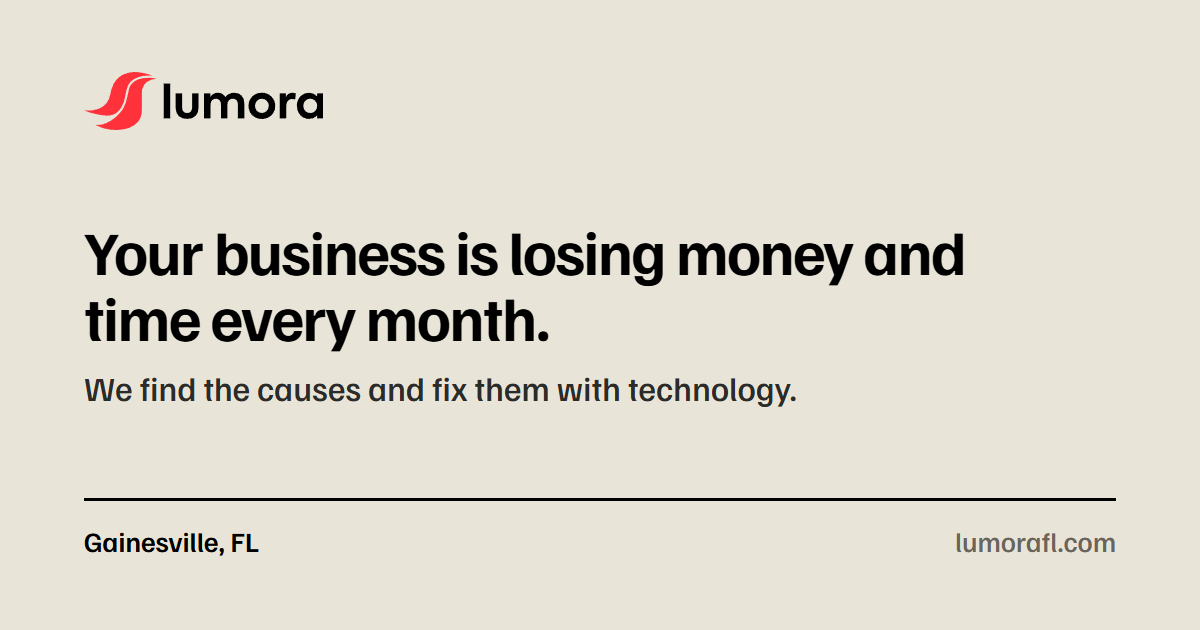
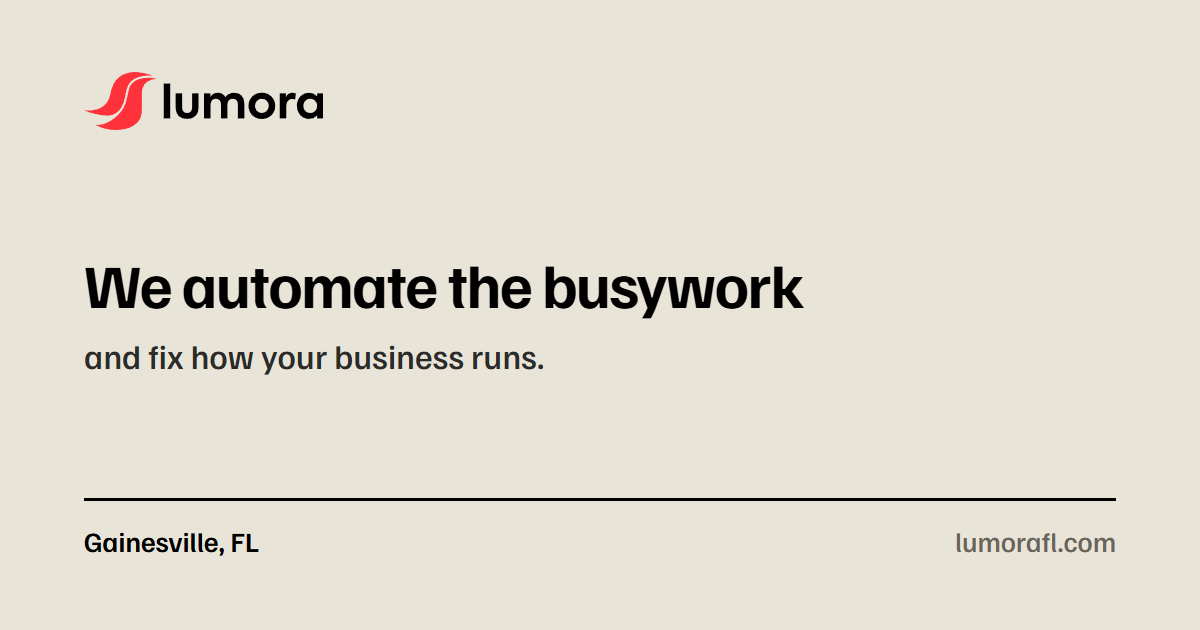
Headline A: We automate the busywork and fix how your business runs (EN and ES), with the operations-and-automation line above it, the new lede, link preview and share card

Changed region(s): [[0.0617, 0.3619, 0.8017, 0.6635]]

diff --git a/es/index.html b/es/index.html
@@ -4,20 +4,20 @@
 <head>
 <meta charset="utf-8">
 <meta name="viewport" content="width=device-width, initial-scale=1">
-<title>Encontramos dónde pierde dinero su negocio | Lumora, Gainesville FL</title>
-<meta name="description" content="Para negocios de oficios y negocios locales de Gainesville: encontramos dónde pierde dinero y tiempo, como datos pasados a mano dos veces, trabajos sin cobrar y cotizaciones tardías, y arreglamos las causas con tecnología. Llamada sin costo, hasta 20 minutos.">
+<title>Automatizamos el trabajo repetitivo | Lumora, Gainesville FL</title>
+<meta name="description" content="Para negocios de oficios y negocios locales de Gainesville: automatizamos el trabajo repetitivo, como datos pasados a mano dos veces, trabajos sin cobrar y cotizaciones tardías, y arreglamos cómo funciona su negocio. Llamada sin costo de hasta 20 minutos.">
 <link rel="canonical" href="https://lumorafl.com/es/">
 <link rel="alternate" hreflang="en" href="https://lumorafl.com/">
 <link rel="alternate" hreflang="es" href="https://lumorafl.com/es/">
 <link rel="alternate" hreflang="x-default" href="https://lumorafl.com/">
-<meta property="og:title" content="Encontramos dónde pierde dinero y tiempo su negocio">
-<meta property="og:description" content="Para negocios de oficios y negocios locales de Gainesville: encontramos dónde pierde dinero y tiempo, como datos pasados a mano dos veces, trabajos sin cobrar y cotizaciones tardías, y arreglamos las causas con tecnología. Llamada sin costo, hasta 20 minutos.">
+<meta property="og:title" content="Automatizamos el trabajo repetitivo y arreglamos cómo funciona su negocio">
+<meta property="og:description" content="Para negocios de oficios y negocios locales de Gainesville: automatizamos el trabajo repetitivo, como datos pasados a mano dos veces, trabajos sin cobrar y cotizaciones tardías, y arreglamos cómo funciona su negocio. Llamada sin costo de hasta 20 minutos.">
 <meta property="og:type" content="website">
 <meta property="og:url" content="https://lumorafl.com/es/">
 <meta property="og:image" content="https://lumorafl.com/assets/share-card-es.png">
 <meta property="og:image:width" content="1200">
 <meta property="og:image:height" content="630">
-<meta property="og:image:alt" content="Lumora. Su negocio pierde dinero y tiempo todos los meses. Encontramos las causas y las arreglamos con tecnología. Gainesville, FL.">
+<meta property="og:image:alt" content="Lumora. Automatizamos el trabajo repetitivo y arreglamos cómo funciona su negocio. Gainesville, FL.">
 <meta name="twitter:card" content="summary_large_image">
 <meta property="og:site_name" content="Lumora">
 <meta property="og:locale" content="es_US">
@@ -27,7 +27,7 @@
 <link rel="preload" href="../assets/fonts/FamiljenGrotesk-Regular.woff2" as="font" type="font/woff2" crossorigin>
 <link rel="preload" href="../assets/fonts/FamiljenGrotesk-SemiBold.woff2" as="font" type="font/woff2" crossorigin>
 <link rel="stylesheet" href="../assets/site.css?v=b9fc018d">
-<script type="application/ld+json">{"@context": "https://schema.org", "@type": "ProfessionalService", "name": "Lumora", "legalName": "Lumora Group LLC", "alternateName": "Lumora Operations & Technology", "url": "https://lumorafl.com/es/", "description": "Para negocios de oficios y negocios locales de Gainesville: encontramos dónde pierde dinero y tiempo, como datos pasados a mano dos veces, trabajos sin cobrar y cotizaciones tardías, y arreglamos las causas con tecnología. Llamada sin costo, hasta 20 minutos.", "logo": "https://lumorafl.com/assets/mark-650.png", "image": "https://lumorafl.com/assets/mark-650.png", "areaServed": {"@type": "AdministrativeArea", "name": "Alachua County, Florida"}, "address": {"@type": "PostalAddress", "addressLocality": "Gainesville", "addressRegion": "FL", "addressCountry": "US"}, "availableLanguage": ["English", "Spanish"], "parentOrganization": {"@type": "Organization", "name": "Lumora Group LLC"}, "telephone": "+13522260681", "email": "franco@lumorafl.com"}</script>
+<script type="application/ld+json">{"@context": "https://schema.org", "@type": "ProfessionalService", "name": "Lumora", "legalName": "Lumora Group LLC", "alternateName": "Lumora Operations & Technology", "url": "https://lumorafl.com/es/", "description": "Para negocios de oficios y negocios locales de Gainesville: automatizamos el trabajo repetitivo, como datos pasados a mano dos veces, trabajos sin cobrar y cotizaciones tardías, y arreglamos cómo funciona su negocio. Llamada sin costo de hasta 20 minutos.", "logo": "https://lumorafl.com/assets/mark-650.png", "image": "https://lumorafl.com/assets/mark-650.png", "areaServed": {"@type": "AdministrativeArea", "name": "Alachua County, Florida"}, "address": {"@type": "PostalAddress", "addressLocality": "Gainesville", "addressRegion": "FL", "addressCountry": "US"}, "availableLanguage": ["English", "Spanish"], "parentOrganization": {"@type": "Organization", "name": "Lumora Group LLC"}, "telephone": "+13522260681", "email": "franco@lumorafl.com"}</script>
 </head>
 <body>
 <a class="skip" href="#main">Saltar al contenido</a>
@@ -54,9 +54,9 @@
 <section class="hero" aria-labelledby="hero-h">
   <div class="wrap hero-grid">
     <div class="hero-copy">
-      <p class="eyebrow">Para negocios locales de Gainesville: oficios, restaurantes y más.</p>
-      <h1 id="hero-h">Su negocio pierde dinero y tiempo todos los meses. Encontramos las causas y las arreglamos con tecnología.</h1>
-      <p class="lede">Pasar el mismo trabajo a mano dos veces, papeleo de noche, trabajos que nadie cobró, cotizaciones que salen demasiado tarde. Recorremos su negocio, le ponemos una cifra en dólares a cada cosa y lo arreglamos, casi siempre dentro del software que ya usa, como QuickBooks o Jobber.</p>
+      <p class="eyebrow">Operaciones y automatización para negocios de Gainesville: oficios, restaurantes y más.</p>
+      <h1 id="hero-h">Automatizamos el trabajo repetitivo y arreglamos cómo funciona su negocio.</h1>
+      <p class="lede">Pasar el mismo trabajo a mano dos veces, papeleo de noche, trabajos que nadie cobró, cotizaciones que salen demasiado tarde. Su negocio debería funcionar igual, esté usted o no. Le ponemos una cifra en dólares a cada problema y lo arreglamos dentro del software que ya usa, como QuickBooks o Jobber.</p>
       <div class="actions">
         <a class="btn btn-hero" href="../es/contact/">Agende una llamada sin costo</a>
       </div>

diff --git a/index.html b/index.html
@@ -4,20 +4,20 @@
 <head>
 <meta charset="utf-8">
 <meta name="viewport" content="width=device-width, initial-scale=1">
-<title>We find where your business loses money | Lumora, Gainesville FL</title>
-<meta name="description" content="For Gainesville trade shops and local businesses: we find where you lose money and time, like retyping, unbilled jobs and late quotes, and fix the causes with technology. Free call, up to 20 minutes.">
+<title>We automate the busywork | Lumora, Gainesville FL</title>
+<meta name="description" content="For Gainesville trade shops and local businesses: we automate the busywork, like retyping, unbilled jobs and late quotes, and fix how your business runs. Free call, up to 20 minutes.">
 <link rel="canonical" href="https://lumorafl.com/">
 <link rel="alternate" hreflang="en" href="https://lumorafl.com/">
 <link rel="alternate" hreflang="es" href="https://lumorafl.com/es/">
 <link rel="alternate" hreflang="x-default" href="https://lumorafl.com/">
-<meta property="og:title" content="We find where your business loses money and time">
-<meta property="og:description" content="For Gainesville trade shops and local businesses: we find where you lose money and time, like retyping, unbilled jobs and late quotes, and fix the causes with technology. Free call, up to 20 minutes.">
+<meta property="og:title" content="We automate the busywork and fix how your business runs">
+<meta property="og:description" content="For Gainesville trade shops and local businesses: we automate the busywork, like retyping, unbilled jobs and late quotes, and fix how your business runs. Free call, up to 20 minutes.">
 <meta property="og:type" content="website">
 <meta property="og:url" content="https://lumorafl.com/">
 <meta property="og:image" content="https://lumorafl.com/assets/share-card-en.png">
 <meta property="og:image:width" content="1200">
 <meta property="og:image:height" content="630">
-<meta property="og:image:alt" content="Lumora. Your business is losing money and time every month. We find the causes and fix them with technology. Gainesville, FL.">
+<meta property="og:image:alt" content="Lumora. We automate the busywork and fix how your business runs. Gainesville, FL.">
 <meta name="twitter:card" content="summary_large_image">
 <meta property="og:site_name" content="Lumora">
 <meta property="og:locale" content="en_US">
@@ -27,7 +27,7 @@
 <link rel="preload" href="assets/fonts/FamiljenGrotesk-Regular.woff2" as="font" type="font/woff2" crossorigin>
 <link rel="preload" href="assets/fonts/FamiljenGrotesk-SemiBold.woff2" as="font" type="font/woff2" crossorigin>
 <link rel="stylesheet" href="assets/site.css?v=b9fc018d">
-<script type="application/ld+json">{"@context": "https://schema.org", "@type": "ProfessionalService", "name": "Lumora", "legalName": "Lumora Group LLC", "alternateName": "Lumora Operations & Technology", "url": "https://lumorafl.com/", "description": "For Gainesville trade shops and local businesses: we find where you lose money and time, like retyping, unbilled jobs and late quotes, and fix the causes with technology. Free call, up to 20 minutes.", "logo": "https://lumorafl.com/assets/mark-650.png", "image": "https://lumorafl.com/assets/mark-650.png", "areaServed": {"@type": "AdministrativeArea", "name": "Alachua County, Florida"}, "address": {"@type": "PostalAddress", "addressLocality": "Gainesville", "addressRegion": "FL", "addressCountry": "US"}, "availableLanguage": ["English", "Spanish"], "parentOrganization": {"@type": "Organization", "name": "Lumora Group LLC"}, "telephone": "+13522260681", "email": "franco@lumorafl.com"}</script>
+<script type="application/ld+json">{"@context": "https://schema.org", "@type": "ProfessionalService", "name": "Lumora", "legalName": "Lumora Group LLC", "alternateName": "Lumora Operations & Technology", "url": "https://lumorafl.com/", "description": "For Gainesville trade shops and local businesses: we automate the busywork, like retyping, unbilled jobs and late quotes, and fix how your business runs. Free call, up to 20 minutes.", "logo": "https://lumorafl.com/assets/mark-650.png", "image": "https://lumorafl.com/assets/mark-650.png", "areaServed": {"@type": "AdministrativeArea", "name": "Alachua County, Florida"}, "address": {"@type": "PostalAddress", "addressLocality": "Gainesville", "addressRegion": "FL", "addressCountry": "US"}, "availableLanguage": ["English", "Spanish"], "parentOrganization": {"@type": "Organization", "name": "Lumora Group LLC"}, "telephone": "+13522260681", "email": "franco@lumorafl.com"}</script>
 <script>(function(){try{var q=new URLSearchParams(location.search).get("lang"),s=null,inside=false;try{s=localStorage.getItem("lumora-lang")}catch(e){}try{inside=!!document.referrer&&new URL(document.referrer).host===location.host}catch(e){}if(q==="es"||(q!=="en"&&s==="es"&&!inside)){location.replace("es/"+location.hash)}}catch(e){}})();</script>
 </head>
 <body>
@@ -55,9 +55,9 @@
 <section class="hero" aria-labelledby="hero-h">
   <div class="wrap hero-grid">
     <div class="hero-copy">
-      <p class="eyebrow">For local businesses in Gainesville: trade shops, restaurants and more.</p>
-      <h1 id="hero-h">Your business is losing money and time every month. We find the causes and fix them with technology.</h1>
-      <p class="lede">Typing the same job twice, paperwork at night, jobs nobody billed, quotes sent too late. We walk through your business, put a dollar figure on each one, then fix them, mostly inside the software you already use, like QuickBooks or Jobber.</p>
+      <p class="eyebrow">Operations and automation for Gainesville businesses: trade shops, restaurants and more.</p>
+      <h1 id="hero-h">We automate the busywork and fix how your business runs.</h1>
+      <p class="lede">Typing the same job twice, paperwork at night, jobs nobody billed, quotes sent too late. Your shop should run the same whether you’re there or not. We put a dollar figure on each problem, then fix it inside the software you already use, like QuickBooks or Jobber.</p>
       <div class="actions">
         <a class="btn btn-hero" href="contact/">Book a free call</a>
       </div>

diff --git a/es/hi/index.html b/es/hi/index.html
@@ -17,7 +17,7 @@
 <meta property="og:image" content="https://lumorafl.com/assets/share-card-es.png">
 <meta property="og:image:width" content="1200">
 <meta property="og:image:height" content="630">
-<meta property="og:image:alt" content="Lumora. Su negocio pierde dinero y tiempo todos los meses. Encontramos las causas y las arreglamos con tecnología. Gainesville, FL.">
+<meta property="og:image:alt" content="Lumora. Automatizamos el trabajo repetitivo y arreglamos cómo funciona su negocio. Gainesville, FL.">
 <meta name="twitter:card" content="summary_large_image">
 <meta property="og:site_name" content="Lumora">
 <meta property="og:locale" content="es_US">
@@ -54,7 +54,7 @@
     <div class="hero-copy">
       <h1 id="hi-h">Le picó la curiosidad, ¿verdad?</h1>
       <p class="hi-lead">Lumora se encarga de lo que hoy se vuelve a escribir, se queda esperando o se olvida.</p>
-      <p class="lede">Su negocio pierde dinero y tiempo todos los meses. Encontramos las causas y las arreglamos con tecnología. Pasar el mismo trabajo a mano dos veces, papeleo de noche, trabajos que nadie cobró, cotizaciones que salen demasiado tarde. Recorremos su negocio, le ponemos una cifra en dólares a cada cosa y lo arreglamos, casi siempre dentro del software que ya usa, como QuickBooks o Jobber.</p>
+      <p class="lede">Automatizamos el trabajo repetitivo y arreglamos cómo funciona su negocio. Pasar el mismo trabajo a mano dos veces, papeleo de noche, trabajos que nadie cobró, cotizaciones que salen demasiado tarde. Su negocio debería funcionar igual, esté usted o no. Le ponemos una cifra en dólares a cada problema y lo arreglamos dentro del software que ya usa, como QuickBooks o Jobber.</p>
       <div class="actions">
         <a class="btn" href="../../es/contact/">Agende una llamada sin costo</a>
         <a class="tl" href="../../es/how-it-works/">Cómo es la visita</a>

diff --git a/hi/index.html b/hi/index.html
@@ -17,7 +17,7 @@
 <meta property="og:image" content="https://lumorafl.com/assets/share-card-en.png">
 <meta property="og:image:width" content="1200">
 <meta property="og:image:height" content="630">
-<meta property="og:image:alt" content="Lumora. Your business is losing money and time every month. We find the causes and fix them with technology. Gainesville, FL.">
+<meta property="og:image:alt" content="Lumora. We automate the busywork and fix how your business runs. Gainesville, FL.">
 <meta name="twitter:card" content="summary_large_image">
 <meta property="og:site_name" content="Lumora">
 <meta property="og:locale" content="en_US">
@@ -54,7 +54,7 @@
     <div class="hero-copy">
       <h1 id="hi-h">It worked on you.</h1>
       <p class="hi-lead">It replaces retyping, waiting and forgetting.</p>
-      <p class="lede">Your business is losing money and time every month. We find the causes and fix them with technology. Typing the same job twice, paperwork at night, jobs nobody billed, quotes sent too late. We walk through your business, put a dollar figure on each one, then fix them, mostly inside the software you already use, like QuickBooks or Jobber.</p>
+      <p class="lede">We automate the busywork and fix how your business runs. Typing the same job twice, paperwork at night, jobs nobody billed, quotes sent too late. Your shop should run the same whether you’re there or not. We put a dollar figure on each problem, then fix it inside the software you already use, like QuickBooks or Jobber.</p>
       <div class="actions">
         <a class="btn" href="../contact/">Book a free call</a>
         <a class="tl" href="../how-it-works/">How the walk works</a>

diff --git a/es/about/index.html b/es/about/index.html
@@ -17,7 +17,7 @@
 <meta property="og:image" content="https://lumorafl.com/assets/share-card-es.png">
 <meta property="og:image:width" content="1200">
 <meta property="og:image:height" content="630">
-<meta property="og:image:alt" content="Lumora. Su negocio pierde dinero y tiempo todos los meses. Encontramos las causas y las arreglamos con tecnología. Gainesville, FL.">
+<meta property="og:image:alt" content="Lumora. Automatizamos el trabajo repetitivo y arreglamos cómo funciona su negocio. Gainesville, FL.">
 <meta name="twitter:card" content="summary_large_image">
 <meta property="og:site_name" content="Lumora">
 <meta property="og:locale" content="es_US">

diff --git a/es/articles/answering-service-or-text-back/index.html b/es/articles/answering-service-or-text-back/index.html
@@ -17,7 +17,7 @@
 <meta property="og:image" content="https://lumorafl.com/assets/share-card-es.png">
 <meta property="og:image:width" content="1200">
 <meta property="og:image:height" content="630">
-<meta property="og:image:alt" content="Lumora. Su negocio pierde dinero y tiempo todos los meses. Encontramos las causas y las arreglamos con tecnología. Gainesville, FL.">
+<meta property="og:image:alt" content="Lumora. Automatizamos el trabajo repetitivo y arreglamos cómo funciona su negocio. Gainesville, FL.">
 <meta name="twitter:card" content="summary_large_image">
 <meta property="og:site_name" content="Lumora">
 <meta property="og:locale" content="es_US">

diff --git a/es/articles/call-history-from-your-phone-company/index.html b/es/articles/call-history-from-your-phone-company/index.html
@@ -17,7 +17,7 @@
 <meta property="og:image" content="https://lumorafl.com/assets/share-card-es.png">
 <meta property="og:image:width" content="1200">
 <meta property="og:image:height" content="630">
-<meta property="og:image:alt" content="Lumora. Su negocio pierde dinero y tiempo todos los meses. Encontramos las causas y las arreglamos con tecnología. Gainesville, FL.">
+<meta property="og:image:alt" content="Lumora. Automatizamos el trabajo repetitivo y arreglamos cómo funciona su negocio. Gainesville, FL.">
 <meta name="twitter:card" content="summary_large_image">
 <meta property="og:site_name" content="Lumora">
 <meta property="og:locale" content="es_US">

diff --git a/es/articles/estimate-follow-up-florida/index.html b/es/articles/estimate-follow-up-florida/index.html
@@ -17,7 +17,7 @@
 <meta property="og:image" content="https://lumorafl.com/assets/share-card-es.png">
 <meta property="og:image:width" content="1200">
 <meta property="og:image:height" content="630">
-<meta property="og:image:alt" content="Lumora. Su negocio pierde dinero y tiempo todos los meses. Encontramos las causas y las arreglamos con tecnología. Gainesville, FL.">
+<meta property="og:image:alt" content="Lumora. Automatizamos el trabajo repetitivo y arreglamos cómo funciona su negocio. Gainesville, FL.">
 <meta name="twitter:card" content="summary_large_image">
 <meta property="og:site_name" content="Lumora">
 <meta property="og:locale" content="es_US">

diff --git a/es/articles/how-fast-to-call-back/index.html b/es/articles/how-fast-to-call-back/index.html
@@ -17,7 +17,7 @@
 <meta property="og:image" content="https://lumorafl.com/assets/share-card-es.png">
 <meta property="og:image:width" content="1200">
 <meta property="og:image:height" content="630">
-<meta property="og:image:alt" content="Lumora. Su negocio pierde dinero y tiempo todos los meses. Encontramos las causas y las arreglamos con tecnología. Gainesville, FL.">
+<meta property="og:image:alt" content="Lumora. Automatizamos el trabajo repetitivo y arreglamos cómo funciona su negocio. Gainesville, FL.">
 <meta name="twitter:card" content="summary_large_image">
 <meta property="og:site_name" content="Lumora">
 <meta property="og:locale" content="es_US">

diff --git a/es/articles/index.html b/es/articles/index.html
@@ -17,7 +17,7 @@
 <meta property="og:image" content="https://lumorafl.com/assets/share-card-es.png">
 <meta property="og:image:width" content="1200">
 <meta property="og:image:height" content="630">
-<meta property="og:image:alt" content="Lumora. Su negocio pierde dinero y tiempo todos los meses. Encontramos las causas y las arreglamos con tecnología. Gainesville, FL.">
+<meta property="og:image:alt" content="Lumora. Automatizamos el trabajo repetitivo y arreglamos cómo funciona su negocio. Gainesville, FL.">
 <meta name="twitter:card" content="summary_large_image">
 <meta property="og:site_name" content="Lumora">
 <meta property="og:locale" content="es_US">

diff --git a/es/articles/jobber-housecall-pro-quickbooks-sync/index.html b/es/articles/jobber-housecall-pro-quickbooks-sync/index.html
@@ -17,7 +17,7 @@
 <meta property="og:image" content="https://lumorafl.com/assets/share-card-es.png">
 <meta property="og:image:width" content="1200">
 <meta property="og:image:height" content="630">
-<meta property="og:image:alt" content="Lumora. Su negocio pierde dinero y tiempo todos los meses. Encontramos las causas y las arreglamos con tecnología. Gainesville, FL.">
+<meta property="og:image:alt" content="Lumora. Automatizamos el trabajo repetitivo y arreglamos cómo funciona su negocio. Gainesville, FL.">
 <meta name="twitter:card" content="summary_large_image">
 <meta property="og:site_name" content="Lumora">
 <meta property="og:locale" content="es_US">

diff --git a/es/articles/missed-call-cost/index.html b/es/articles/missed-call-cost/index.html
@@ -17,7 +17,7 @@
 <meta property="og:image" content="https://lumorafl.com/assets/share-card-es.png">
 <meta property="og:image:width" content="1200">
 <meta property="og:image:height" content="630">
-<meta property="og:image:alt" content="Lumora. Su negocio pierde dinero y tiempo todos los meses. Encontramos las causas y las arreglamos con tecnología. Gainesville, FL.">
+<meta property="og:image:alt" content="Lumora. Automatizamos el trabajo repetitivo y arreglamos cómo funciona su negocio. Gainesville, FL.">
 <meta name="twitter:card" content="summary_large_image">
 <meta property="og:site_name" content="Lumora">
 <meta property="og:locale" content="es_US">
